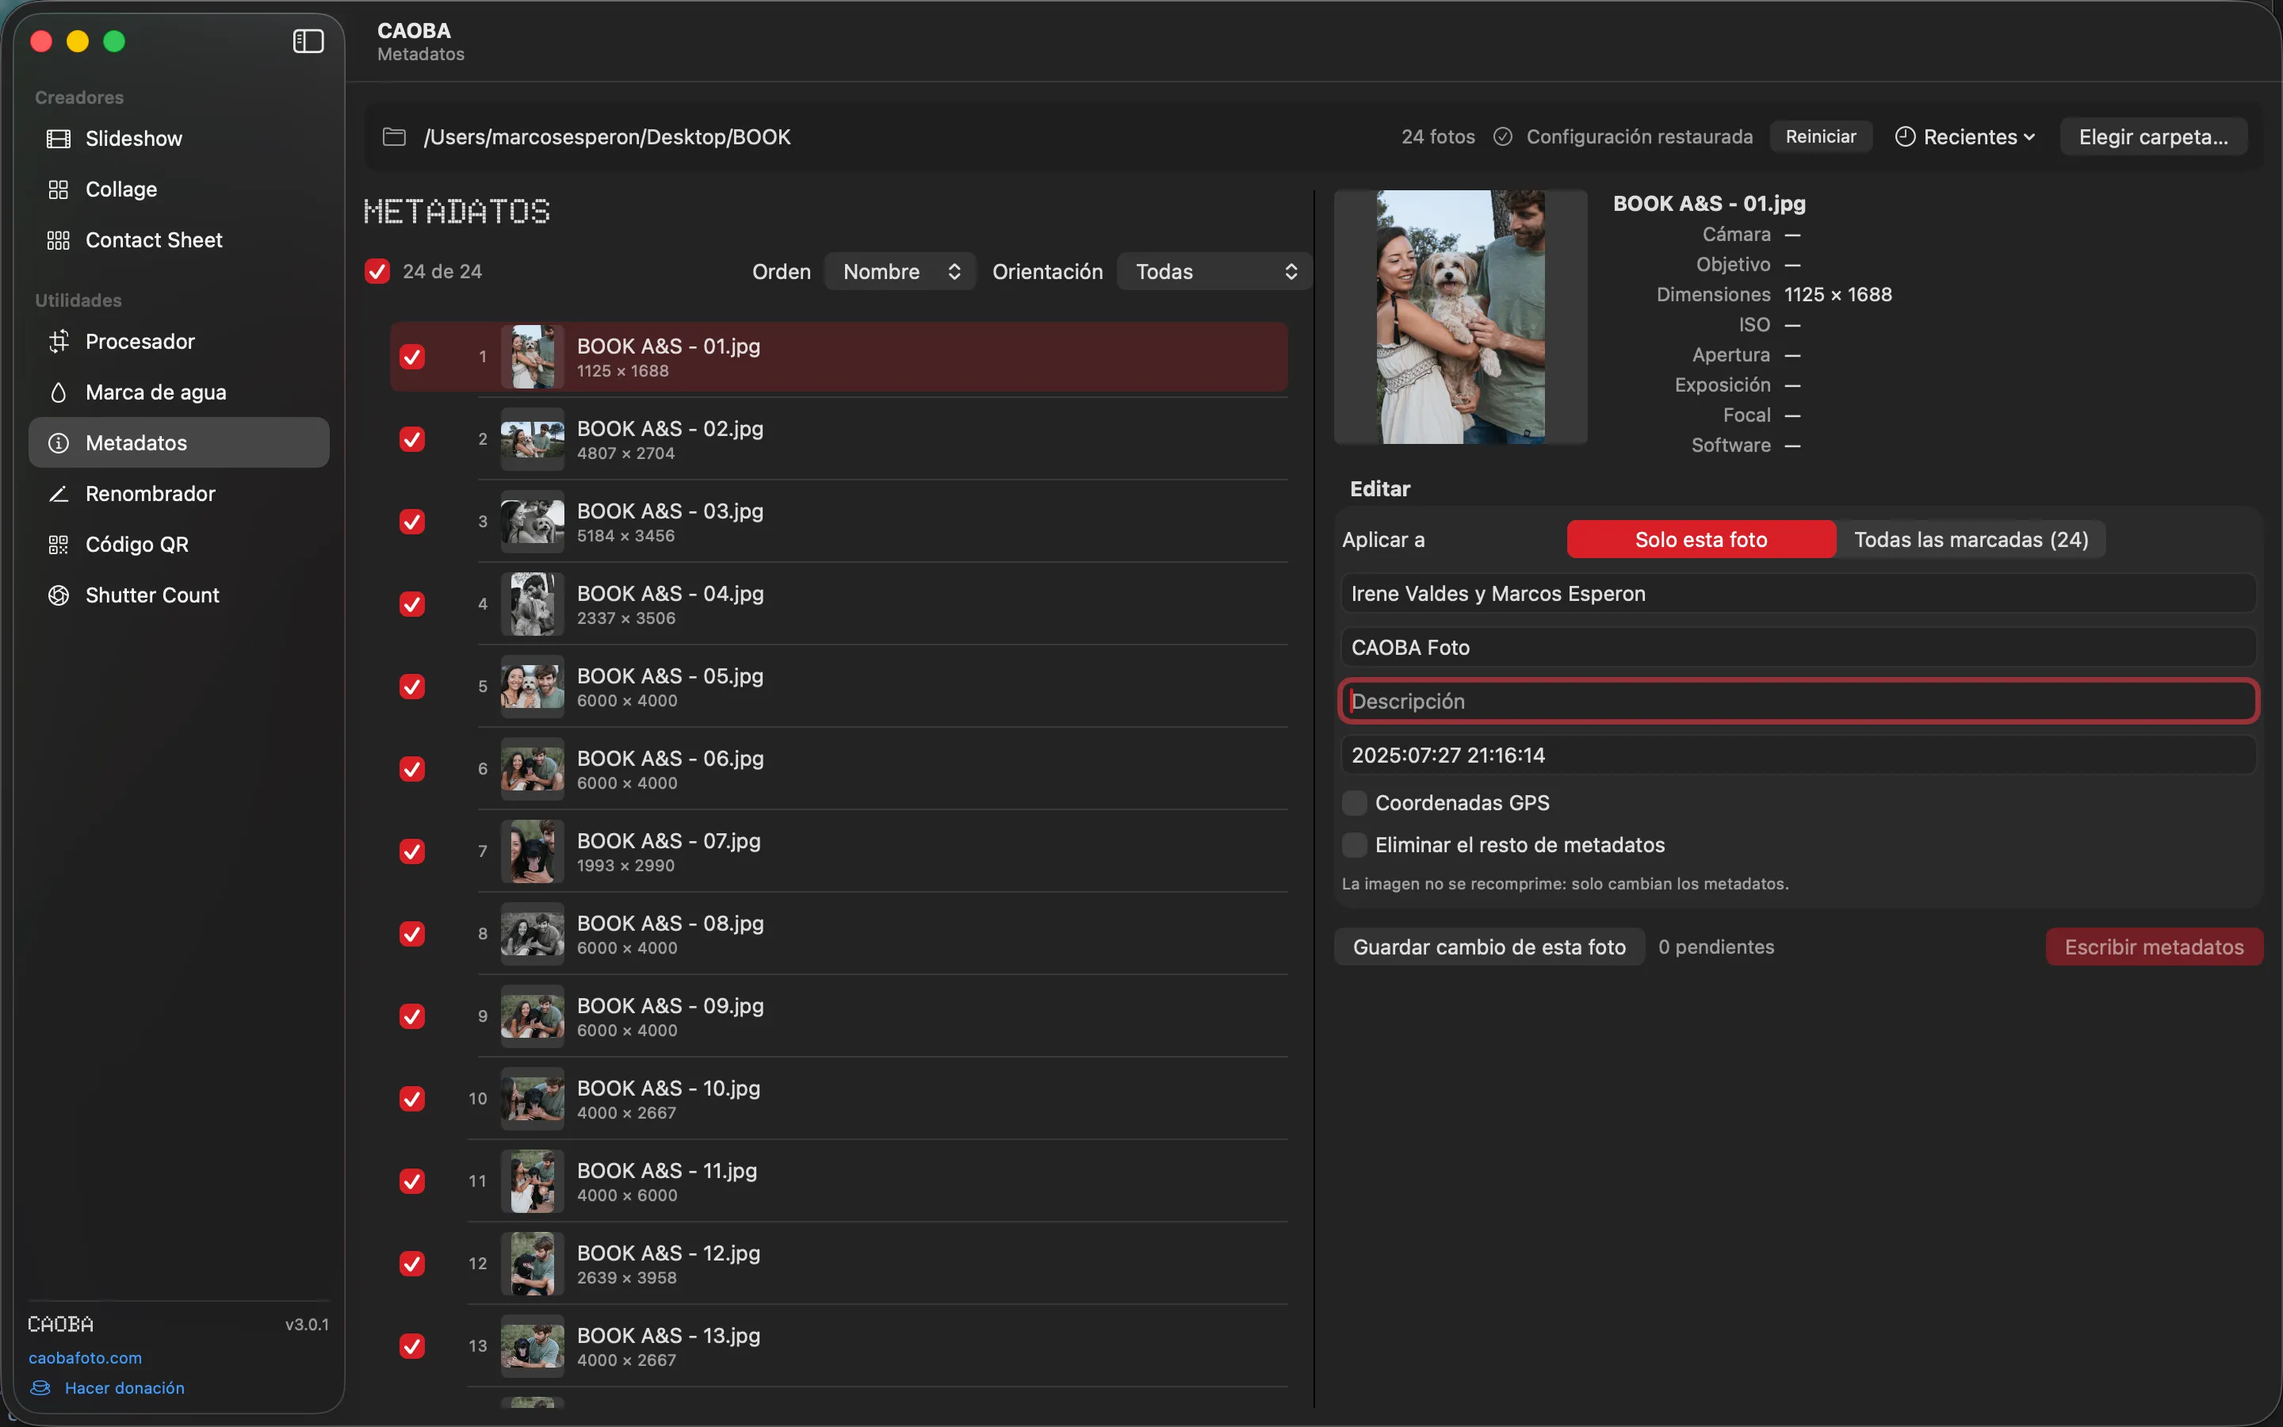
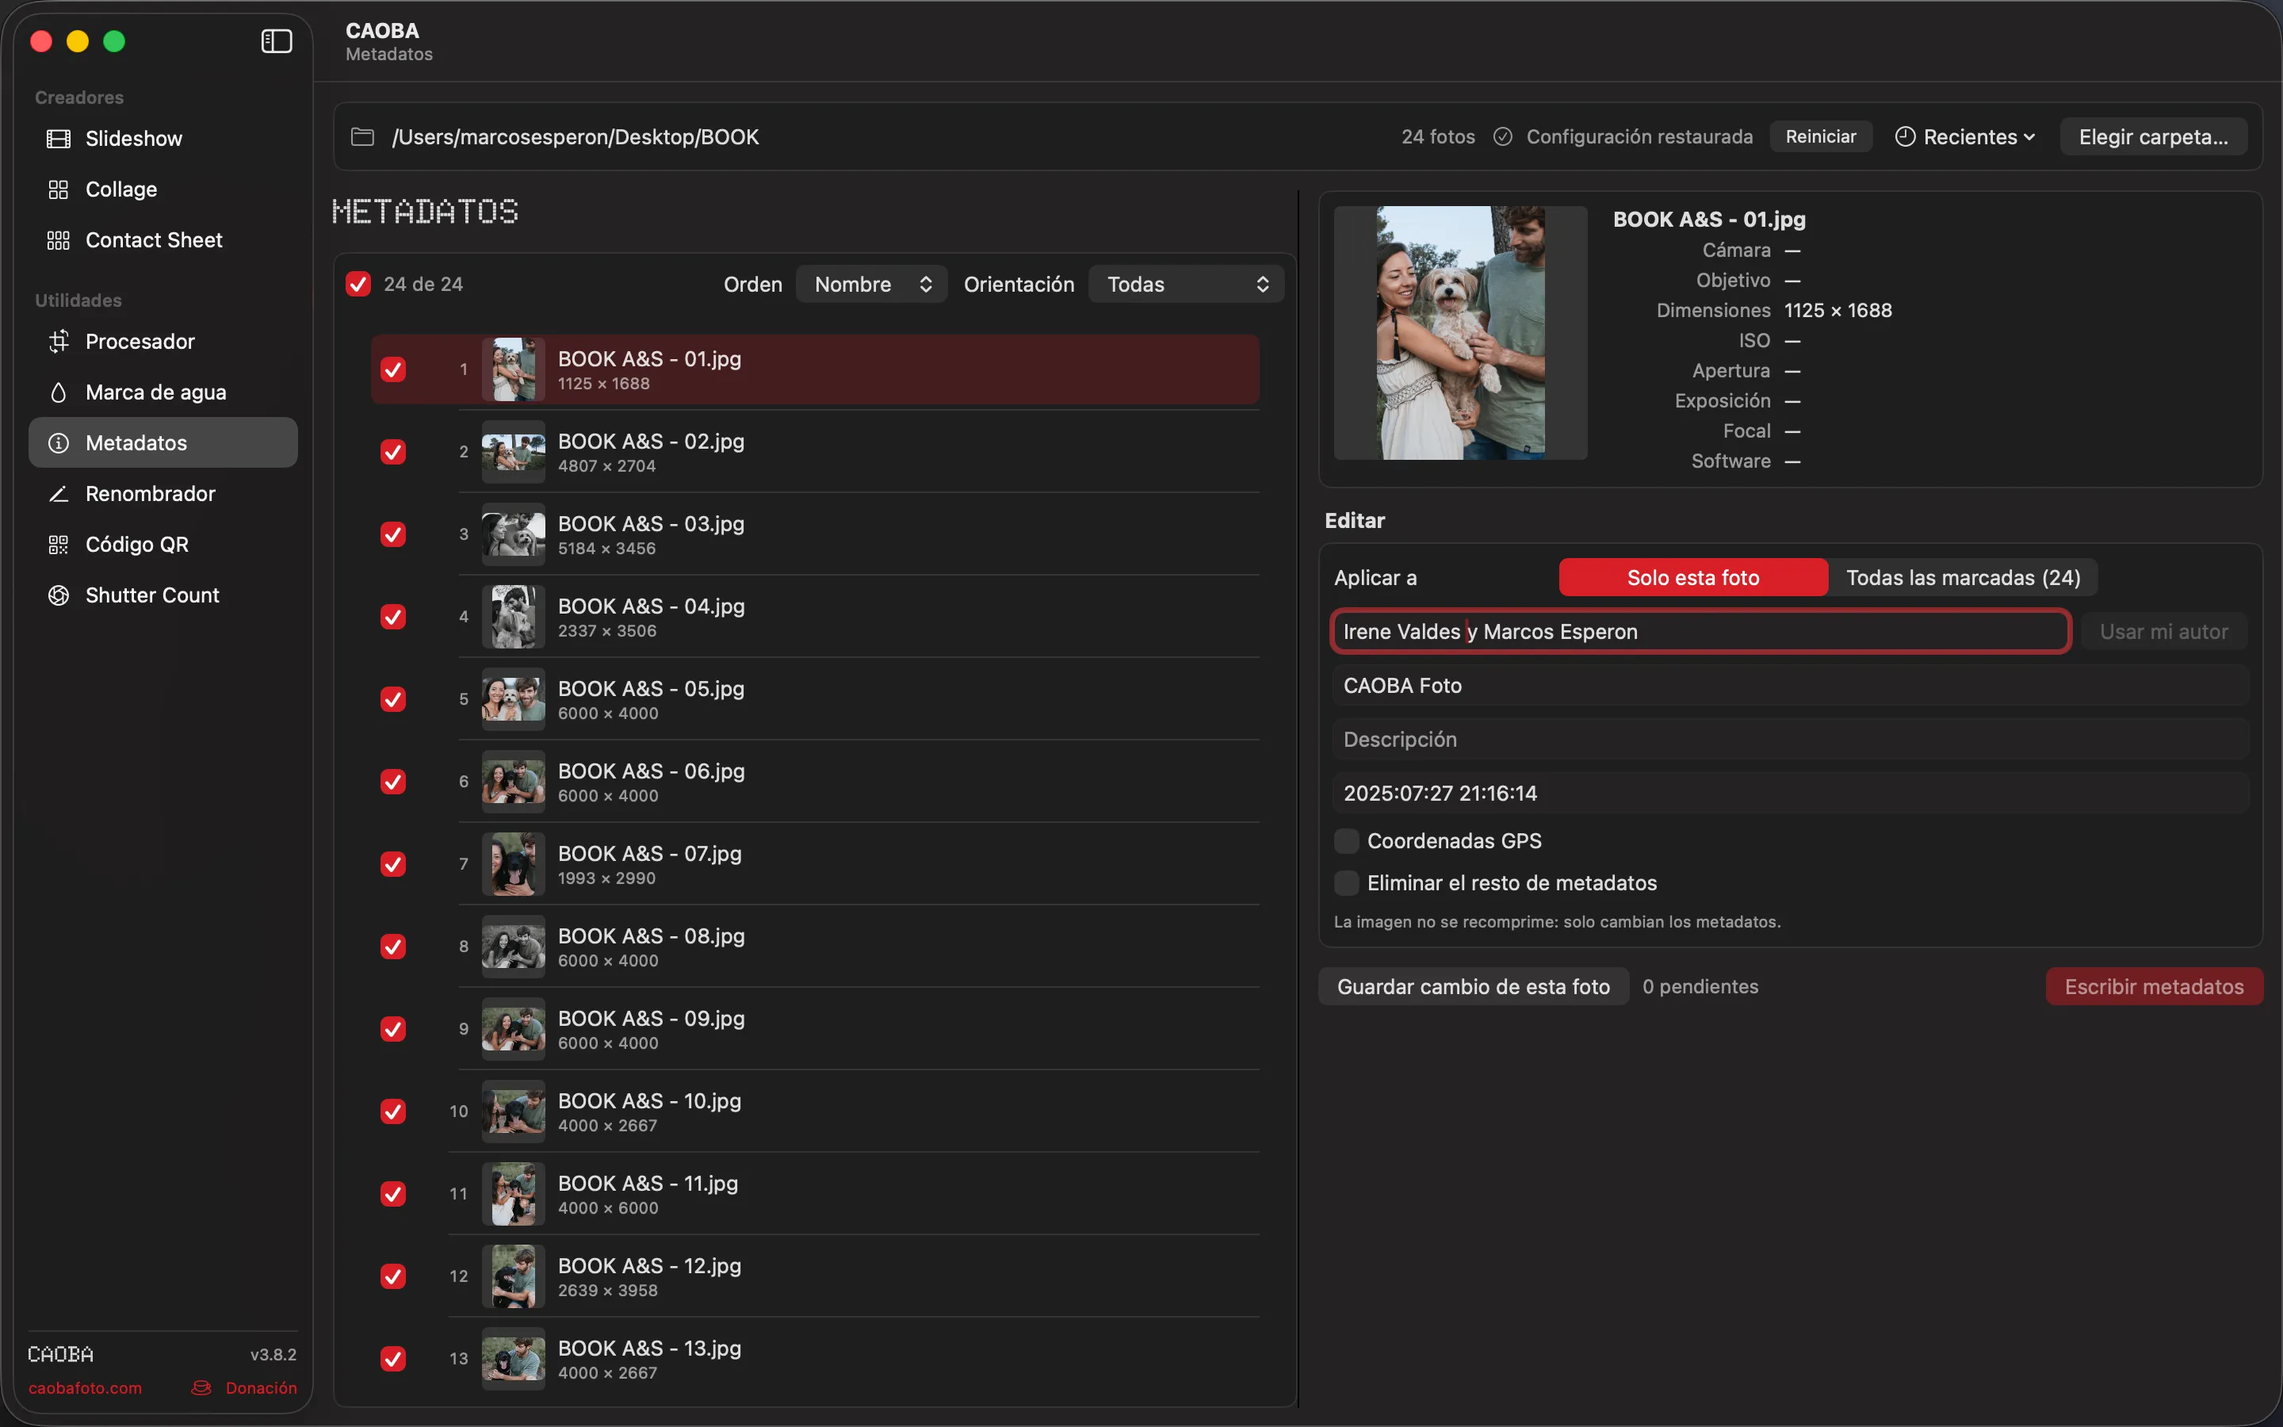
Landing: capturas nuevas y novedades en Slideshow, Metadatos y «Por qué CAOBA»

diff --git a/index.html b/index.html
@@ -230,7 +230,7 @@
         <picture><source srcset="assets/screenshots/slideshow.webp" type="image/webp"><img src="assets/screenshots/slideshow.png" width="2880" height="1800" alt="CAOBA: módulo Slideshow con el timeline de fotos, collages y pistas de música" fetchpriority="high"></picture>
       </a>
       <figcaption>
-        <span><b>Slideshow</b> · <span lang-es>collages y fotos en el timeline, dos pistas de música</span><span lang-en>collages and photos on the timeline, two music tracks</span></span>
+        <span><b>Slideshow</b> · <span lang-es>un título, collages y dos pistas de música en el timeline</span><span lang-en>a title, collages and two music tracks on the timeline</span></span>
         <span>macOS 14 · <span lang-es>modo oscuro</span><span lang-en>dark mode</span></span>
       </figcaption>
     </figure>
@@ -241,21 +241,23 @@
       <p class="kicker"><span lang-es>Nueve módulos, una carpeta</span><span lang-en>Nine modules, one folder</span></p>
       <h2><span lang-es>Lo que hace</span><span lang-en>What it does</span></h2>
       <p class="intro">
-        <span lang-es>Eliges una carpeta de fotos, marcas cuáles entran y cambias de módulo sin volver a empezar. La configuración se guarda en la propia carpeta y se restaura al volver.</span>
-        <span lang-en>Pick a folder of photos, check which ones are in, and switch modules without starting over. Settings are saved in the folder itself and restored when you come back.</span>
+        <span lang-es>Eliges una carpeta de fotos, marcas cuáles entran, las ordenas arrastrando y cambias de módulo sin volver a empezar: el orden es el mismo en Slideshow, Collage y Contact Sheet. La configuración se guarda en la propia carpeta y se restaura al volver.</span>
+        <span lang-en>Pick a folder of photos, check which ones are in, drag them into order and switch modules without starting over: the order is the same in Slideshow, Collage and Contact Sheet. Settings are saved in the folder itself and restored when you come back.</span>
       </p>
       <div class="grid">
         <article class="mod wide">
-          <a class="shot" href="assets/screenshots/slideshow.png" target="_blank" rel="noopener"><picture><source srcset="assets/screenshots/slideshow.webp" type="image/webp"><img src="assets/screenshots/slideshow.png" width="2880" height="1800" loading="lazy" alt="Slideshow: timeline con fotos, collages y música"></picture></a>
+          <a class="shot" href="assets/screenshots/slideshow.png" target="_blank" rel="noopener"><picture><source srcset="assets/screenshots/slideshow.webp" type="image/webp"><img src="assets/screenshots/slideshow.png" width="2880" height="1800" loading="lazy" alt="Slideshow: timeline con un título, collages y música"></picture></a>
           <div class="n">01<span class="tag"><span lang-es>Creador</span><span lang-en>Creator</span></span></div><h3>Slideshow</h3>
           <p><span lang-es>Fotos o collages a MP4, montados en un timeline como el de un editor de vídeo.</span><span lang-en>Photos or collages to MP4, arranged on a video-editor style timeline.</span></p>
           <ul>
             <li><span lang-es>Seis formatos: TV y YouTube, Historias y Reels, feed de Instagram, clásicos.</span><span lang-en>Six formats: TV and YouTube, Stories and Reels, Instagram feed, classics.</span></li>
             <li><span lang-es><b>Transiciones</b>: fundidos, corte, deslizar, zoom cruzado y barrido, por defecto o por foto, con su duración.</span><span lang-en><b>Transitions</b>: fades, cut, slide, cross zoom and wipe, by default or per photo, each with its own length.</span></li>
-            <li><span lang-es>Ken Burns con editor de encuadre, previsualización y <b>detección de caras</b>; portada, créditos y marca de agua.</span><span lang-en>Ken Burns with framing editor, preview and <b>face detection</b>; cover, credits and watermark.</span></li>
-            <li><span lang-es>Música arrastrable y recortable, varias pistas con crossfade, repetición, fundido de salida y normalización EBU R128.</span><span lang-en>Draggable, trimmable music, several tracks with crossfade, looping, fade-out and EBU R128 loudness.</span></li>
+            <li><span lang-es><b>Títulos y textos</b> en cualquier punto del timeline, a pantalla propia o sobre la foto siguiente, cada uno con su letra, posición y animación (fundido, deslizar, máquina de escribir…), y un clic para aplicar el mismo estilo a todos. Pies de foto con patrón: nombre, fecha, cámara…</span><span lang-en><b>Titles and text</b> anywhere on the timeline, on their own screen or over the next photo, each with its own font, position and animation (fade, slide, typewriter…), and one click to give them all the same style. Photo captions from a pattern: name, date, camera…</span></li>
+            <li><span lang-es>Un clic en cualquier elemento del timeline abre su <b>editor</b>: Ken Burns con encuadre de inicio y fin, previsualización y <b>detección de caras</b>; portada, créditos y marca de agua.</span><span lang-en>Click anything on the timeline to open its <b>editor</b>: Ken Burns with start and end framing, preview and <b>face detection</b>; cover, credits and watermark.</span></li>
+            <li><span lang-es>Música arrastrable y recortable, con <b>preescucha</b> del tramo elegido; varias pistas con crossfade, repetición, fundido de salida y normalización EBU R128.</span><span lang-en>Draggable, trimmable music with a <b>preview player</b> for the chosen section; several tracks with crossfade, looping, fade-out and EBU R128 loudness.</span></li>
             <li><span lang-es><b>Ajustar al ritmo</b>: detecta los golpes de cada canción y hace que cada cambio caiga en el golpe que suena.</span><span lang-en><b>Fit to the beat</b>: detects the beats of each song so every change lands on the beat that is playing.</span></li>
             <li><span lang-es>Duración por foto o global, vista previa rápida y codificación por hardware sin ficheros temporales entre tus fotos.</span><span lang-en>Per-photo or global duration, quick preview and hardware encoding with no temp files among your photos.</span></li>
+            <li><span lang-es>Si mueves la música, la portada o la marca de agua, el proyecto las <b>marca y las localizas</b> sin perder sus ajustes. El vídeo lleva tu autor y una descripción.</span><span lang-en>If you move the music, cover or watermark, the project <b>flags them so you can relink them</b> without losing their settings. The video carries your author name and a description.</span></li>
           </ul>
         </article>
         <article class="mod">
@@ -301,7 +303,7 @@
           <div class="n">06</div><h3><span lang-es>Metadatos</span><span lang-en>Metadata</span></h3>
           <p><span lang-es>Lee y escribe EXIF sin recomprimir la imagen.</span><span lang-en>Read and write EXIF without recompressing the image.</span></p>
           <ul>
-            <li><span lang-es>Autor, copyright, descripción, fecha de captura y coordenadas GPS con mapa, por foto o para todas las marcadas.</span><span lang-en>Author, copyright, description, capture date and GPS coordinates with a map, per photo or for all checked ones.</span></li>
+            <li><span lang-es>Autor (con un clic, el que tengas en Ajustes), copyright, descripción, fecha de captura y coordenadas GPS con mapa, por foto o para todas las marcadas.</span><span lang-en>Author (one click fills in the one from Settings), copyright, description, capture date and GPS coordinates with a map, per photo or for all checked ones.</span></li>
             <li><span lang-es>Ficha con cámara, objetivo, ISO, apertura, exposición y focal; opción de limpiar el resto de metadatos.</span><span lang-en>Card with camera, lens, ISO, aperture, exposure and focal length; option to strip the remaining metadata.</span></li>
           </ul>
         </article>
@@ -342,8 +344,8 @@
       <div class="why">
         <div><div class="num">0<small style="font-size:24px">€</small></div><b><span lang-es>Gratis. De verdad</span><span lang-en>Free. Really</span></b><p><span lang-es>Sin cuentas, sin suscripción, sin versión «pro». El código es abierto y está en GitHub.</span><span lang-en>No accounts, no subscription, no “pro” version. The code is open and on GitHub.</span></p></div>
         <div><div class="num">100<small style="font-size:24px">%</small></div><b><span lang-es>Tus fotos no salen de tu Mac</span><span lang-en>Your photos never leave your Mac</span></b><p><span lang-es>Todo se procesa en local. Nada se sube a ningún servidor; la única conexión es comprobar si hay una versión nueva.</span><span lang-en>Everything runs locally. Nothing is uploaded anywhere; the only connection is checking for a new version.</span></p></div>
-        <div><div class="num">↩</div><b><span lang-es>Pensada para no perder nada</span><span lang-en>Built so you lose nothing</span></b><p><span lang-es>Originales intactos (copias nuevas por defecto), metadatos sin recomprimir, renombrado con deshacer y la configuración guardada en cada carpeta.</span><span lang-en>Originals untouched (new copies by default), metadata without recompression, renaming with undo and settings saved in each folder.</span></p></div>
-        <div><div class="num">14<small style="font-size:24px">MB</small></div><b><span lang-es>Rápida y ligera</span><span lang-en>Fast and light</span></b><p><span lang-es>Se instala arrastrando y arranca al instante. El vídeo se codifica por hardware, en Mac Intel o Apple Silicon.</span><span lang-en>Installs by dragging and opens instantly. Video is hardware-encoded, on Intel or Apple Silicon Macs.</span></p></div>
+        <div><div class="num">↩</div><b><span lang-es>Pensada para no perder nada</span><span lang-en>Built so you lose nothing</span></b><p><span lang-es>Originales intactos (copias nuevas por defecto), metadatos sin recomprimir, renombrado con deshacer y la configuración guardada en cada carpeta, que avisa antes de borrarse y recupera los ficheros que hayas movido.</span><span lang-en>Originals untouched (new copies by default), metadata without recompression, renaming with undo and settings saved in each folder, which asks before being reset and relinks files you have moved.</span></p></div>
+        <div><div class="num">14<small style="font-size:24px">MB</small></div><b><span lang-es>Rápida y ligera</span><span lang-en>Fast and light</span></b><p><span lang-es>Se instala arrastrando, arranca al instante y se actualiza desde la propia app. El vídeo se codifica por hardware, en Mac Intel o Apple Silicon.</span><span lang-en>Installs by dragging, opens instantly and updates from within the app. Video is hardware-encoded, on Intel or Apple Silicon Macs.</span></p></div>
       </div>
       <p class="why-note"><span lang-es>Hecha por un estudio de fotografía para su propio trabajo: lo que ves es lo que usamos cada día.</span><span lang-en>Made by a photography studio for its own work: what you see is what we use every day.</span></p>
     </div>

diff --git a/docs/decisiones.md b/docs/decisiones.md
@@ -1997,3 +1997,44 @@ Ninguna.
 
 ### 6. Pendiente de comprobar
 - La ventana de confirmación no sale en las capturas (ventana aparte); se comprobó en el código.
+
+## 2026-10-20 — Landing: capturas nuevas y novedades
+
+### 1. La petición tal como se ha entendido
+El usuario ha cambiado las capturas de `assets/screenshots/` (mismos nombres, así que la página ya las usa). Falta contar en `index.html` lo que ha entrado desde la última vez que se tocó la landing (3.3.3), integrado en cada módulo y en «Por qué CAOBA», en español y en inglés y sin hablar de versiones:
+- **Slideshow:**
+  - Tarjetas de texto en cualquier punto del timeline, a pantalla propia o sobre la foto siguiente, cada una con su letra, posición, realce y animación de entrada y salida, y «Aplicar estilo a todas».
+  - Pies de foto con patrón ({nombre}, {fecha}, {camara}…).
+  - Editor de cada elemento al pulsarlo en el timeline.
+  - Preescucha del tramo de cada pista.
+  - Ficheros movidos (música, portada, créditos, marca) que se marcan y se localizan sin perder ajustes.
+  - El vídeo guarda tu autor y una descripción.
+- **Introducción de «Lo que hace»:** las fotos se ordenan arrastrando, y ese orden es el mismo en Slideshow, Collage y Contact Sheet.
+- **Metadatos:** «Usar mi autor», con el autor puesto en Ajustes.
+- **«Por qué CAOBA»:** en «Pensada para no perder nada», que «Reiniciar» avisa antes y que los ficheros movidos se recuperan; en «Rápida y ligera», que se actualiza desde la propia app.
+- **Pie de la captura grande:** que diga lo que se ve ahora (un título, collages y dos pistas de música en el timeline).
+Confirmada por el usuario («si»).
+
+### 2. Preguntas y respuestas
+- **¿Cómo se incluyen las novedades: dentro de cada módulo, una sección «Novedades» además, o solo la sección?** → Dentro de cada módulo (sobre todo Slideshow) y en «Por qué CAOBA», como funciones de la app y sin hablar de versiones.
+
+### 4. Decisiones
+- Plan aprobado («si»), con commit y push a `main` (que publica la landing en GitHub Pages); sin versión de la app.
+- `index.html`, en español e inglés (79 textos de cada idioma, HTML bien formado):
+  - Slideshow: viñeta nueva de títulos y textos (con estilo para todos y pies con patrón); la de Ken Burns pasa a «un clic abre su editor»; la de música suma la preescucha; viñeta nueva de ficheros movidos y autor del vídeo.
+  - Introducción de «Lo que hace»: ordenar arrastrando, con el mismo orden en Slideshow, Collage y Contact Sheet.
+  - Metadatos: autor de Ajustes con un clic.
+  - «Por qué CAOBA»: «Reiniciar» avisa y los ficheros movidos se recuperan; se actualiza desde la propia app.
+  - Pie y `alt` de la captura grande: un título, collages y dos pistas.
+- Las capturas nuevas del usuario (mismos nombres, PNG y WebP, también `og`) entran en el mismo commit.
+- Comprobado con una captura de la página hecha con WebKit (programa temporal, sin abrir el navegador): la tarjeta del Slideshow crece y deja algo de hueco bajo el texto del Collage, sin descuadrar nada; los recortes de las capturas nuevas encajan.
+- Sin versión de la app: la landing se publica con el push a `main` (GitHub Pages).
+
+### 3. Fuentes analizadas
+- `index.html` (secciones Slideshow, «Lo que hace», Metadatos, «Por qué CAOBA» y pie de la captura grande) y `CHANGELOG.md` de la 3.3.0 a la 3.8.2.
+
+### 5. Alternativas descartadas
+- Sección «Novedades» aparte (con o sin actualizar los módulos): descartado por el usuario; la landing describe lo que hace la app, no su historial.
+
+### 6. Pendiente de comprobar
+- Cómo se ve en móvil (no se ha capturado a ese ancho).
